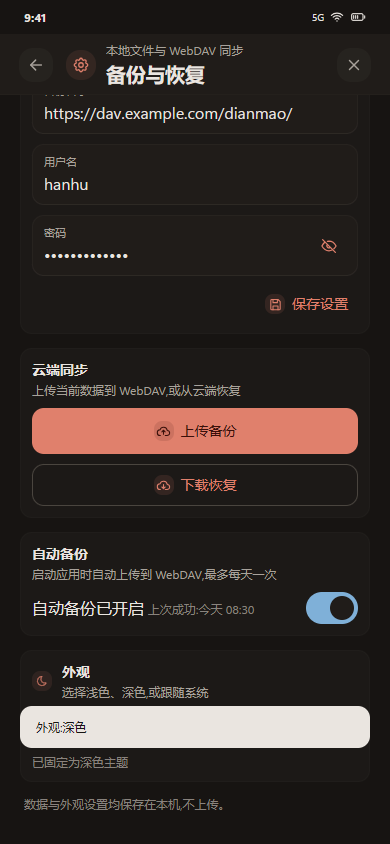
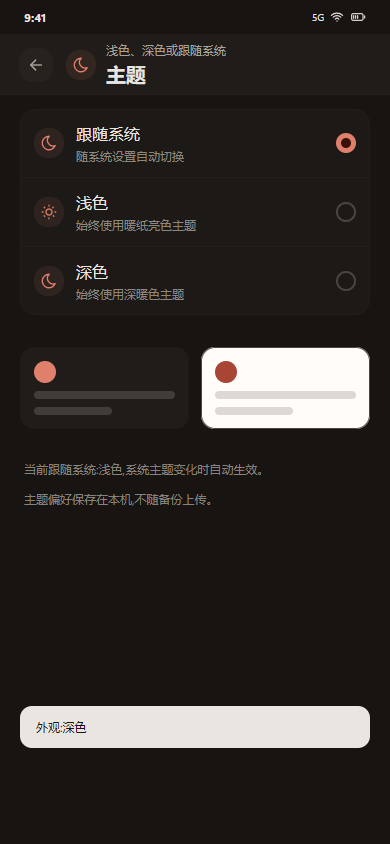
feat: split settings into a two-level hub with a dedicated appearance page

diff --git a/design/mockup/app.js b/design/mockup/app.js
@@ -34,6 +34,7 @@ function initial() {
   const t = (o) => Object.assign({ detail: null, useCalendar: false, useAlarm: false, useLocalReminder: false, repeat: null, subTasks: [], completed: false, completionNote: null, completionCount: 0, archived: false, dueAt: null, dueLabel: null }, o);
   return {
     page: 'home',
+    from: null, // where a level-2 settings page was opened from
     homeView: 'quadrants',
     search: false, query: '',
     activeQ: 'iu',
@@ -181,7 +182,7 @@ function homeHeader() {
         <button class="icon-button tile" data-action="search" aria-label="搜索">${itile(state.search ? 'close' : 'search', 'var(--on-surface-variant)')}</button>
         <button class="icon-button tile" data-page="calendar" aria-label="日历">${itile('calendar', 'var(--on-surface-variant)')}</button>
         <button class="icon-button tile" data-page="archive" aria-label="归档事项">${itile('archive', 'var(--on-surface-variant)')}</button>
-        <button class="icon-button tile" data-page="backup" aria-label="备份与恢复">${itile('settings', 'var(--on-surface-variant)')}</button>
+        <button class="icon-button tile" data-page="settings" aria-label="设置">${itile('settings', 'var(--on-surface-variant)')}</button>
       </div>
     </div>
     <div class="pills">
@@ -563,6 +564,56 @@ function reviewContent() {
 }
 
 /* ---------- page: backup ---------- */
+/* ---------- page: settings (level 1) ---------- */
+function settingsHeader() {
+  return `<button class="icon-button tile" data-action="back" aria-label="返回">${itile('arrow-back', 'var(--on-surface-variant)')}</button>
+    ${itile('settings', 'var(--primary)')}
+    <div class="header-title"><div class="eyeline">偏好与数据</div><h2>设置</h2></div>`;
+}
+const THEME_MODE_LABEL = { system: '跟随系统', light: '浅色', dark: '深色' };
+function settingsContent() {
+  const b = state.backup;
+  const host = b.url.trim() ? (b.url.match(/^https?:\/\/([^/]+)/) || [, ''])[1] : null;
+  const doneCount = active().filter(t => t.completed).length;
+  const group = (title, rows) => `<div class="section-label" style="padding:0 4px 6px">${title}</div><div class="settings-group">${rows}</div>`;
+  const row = (a, ic, tint, title, sub, trailing) => `<button class="settings-row" data-action="${a}">
+      ${itile(ic, tint)}<span class="sr-tx"><b>${title}</b><span>${sub}</span></span>${trailing || icon('chev-right', 's18 set-chev')}</button>`;
+  const tag = (label, tone = '') => `<span class="set-tag${tone ? ' ' + tone : ''}">${label}</span>`;
+  return `
+    <div class="settings-hero">
+      <span class="brand-mark">D</span>
+      <div><h2>DianMao</h2><span class="hint">v1.1.2 · The Day Compass</span></div>
+    </div>
+    ${group('外观', row('settings-appearance', 'moon', 'var(--primary)', '主题', '浅色、深色或跟随系统', tag(THEME_MODE_LABEL[state.themeMode])) + row('settings-widget', 'inventory', 'var(--secondary)', '小组件与通知', '桌面小组件与到点提醒样式', ''))}
+    ${group('数据', row('settings-backup', 'cloud-up', 'var(--secondary)', '备份与恢复', host ? `${host} · 已连接` : '本地导出与 WebDAV 同步', tag(host ? '已连接' : '未配置', host ? '' : 'warn')) + row('settings-archive', 'archive', 'var(--q-nn)', '归档事项', `${state.tasks.filter(t => t.archived).length} 项已归档`, '') + row('settings-review', 'chart', 'var(--primary)', '复盘', `${doneCount} 项已完成可复盘`, ''))}
+    ${group('关于', row('settings-about', 'compass', 'var(--primary)', '关于 DianMao', '版本、设计语言与隐私说明', ''))}
+    <span class="hint" style="padding:4px">所有数据与偏好仅保存在本机;备份由你自行指定目标。</span>`;
+}
+
+/* ---------- page: appearance (level 2) ---------- */
+function appearanceHeader() {
+  return `<button class="icon-button tile" data-action="settings-back" aria-label="返回设置">${itile('arrow-back', 'var(--on-surface-variant)')}</button>
+    ${itile('moon', 'var(--primary)')}
+    <div class="header-title"><div class="eyeline">浅色、深色或跟随系统</div><h2>主题</h2></div>`;
+}
+function appearanceContent() {
+  const modes = [['system', '跟随系统', '随系统设置自动切换', 'moon'], ['light', '浅色', '始终使用暖纸亮色主题', 'sun'], ['dark', '深色', '始终使用深暖色主题', 'moon']];
+  const list = modes.map(([k, label, sub, ic]) => `<button class="choice-row${state.themeMode === k ? ' on' : ''}" data-action="theme-mode" data-mode="${k}" role="radio" aria-checked="${state.themeMode === k}">
+      ${itile(ic, 'var(--primary)')}
+      <span class="sr-tx"><b>${label}</b><span>${sub}</span></span>
+      <span class="radio${state.themeMode === k ? ' on' : ''}" aria-hidden="true"></span>
+    </button>`).join('');
+  const preview = `<div class="theme-preview">
+      <div class="tp-card dark"><span class="tp-swatch"></span><span class="tp-line"></span><span class="tp-line short"></span></div>
+      <div class="tp-card light"><span class="tp-swatch"></span><span class="tp-line"></span><span class="tp-line short"></span></div>
+    </div>`;
+  return `<div class="settings-group choice-list">${list}</div>
+    ${preview}
+    <span class="hint" style="padding:0 4px">${state.themeMode === 'system' ? `当前跟随系统:${isDarkNow() ? '深色' : '浅色'}` : `已固定为${THEME_MODE_LABEL[state.themeMode]}主题`}${state.themeMode === 'system' ? ',系统主题变化时自动生效。' : '。切回跟随系统即可自动跟随。'}</span>
+    <span class="hint" style="padding:0 4px">主题偏好保存在本机,不随备份上传。</span>`;
+}
+
+/* ---------- page: backup (level 2) ---------- */
 function backupHeader() {
   return `<button class="icon-button tile" data-action="back" aria-label="返回">${itile('arrow-back', 'var(--on-surface-variant)')}</button>
     ${itile('settings', 'var(--primary)')}
@@ -613,15 +664,7 @@ function backupContent() {
           <span class="hint">${b.auto ? '上次成功:今天 08:30' : '需要先配置 WebDAV'}</span></div>
         <span class="switch${b.auto ? ' on' : ''}" data-action="toggle-auto" role="switch" aria-checked="${b.auto}"><span class="thumb"></span></span>
       </div>
-    </div>
-    <div class="block">
-      <div class="sec-head">${itile('moon', 'var(--primary)', true)}<div class="tx"><span class="sec-title sm">外观</span><span class="sec-sub">选择浅色、深色,或跟随系统</span></div></div>
-      <div class="segmented">
-        ${[['system', '跟随系统'], ['light', '浅色'], ['dark', '深色']].map(([k, l]) => `<button class="seg ${state.themeMode === k ? 'on' : ''}" data-action="theme-mode" data-mode="${k}">${l}</button>`).join('')}
-      </div>
-      <span class="hint">${state.themeMode === 'system' ? `当前跟随系统:${isDarkNow() ? '深色' : '浅色'}` : `已固定为${state.themeMode === 'dark' ? '深色' : '浅色'}主题`}</span>
-    </div>
-    <span class="hint" style="padding:0 4px">数据与外观设置均保存在本机,不上传。</span>`;
+    </div>`;
 }
 
 /* ---------- page: archive ---------- */
@@ -723,7 +766,7 @@ function dialogsContent() {
 }
 
 /* ---------- navigation + notes ---------- */
-const PAGES = [['home', '首页'], ['quadrant', '象限详情'], ['detail', '事项详情'], ['add', '新增事项'], ['calendar', '日历'], ['review', '复盘'], ['backup', '备份'], ['archive', '归档'], ['dialogs', '对话框'], ['widget', '小组件与通知']];
+const PAGES = [['home', '首页'], ['quadrant', '象限详情'], ['detail', '事项详情'], ['add', '新增事项'], ['calendar', '日历'], ['review', '复盘'], ['settings', '设置'], ['backup', '备份'], ['archive', '归档'], ['dialogs', '对话框'], ['widget', '小组件与通知']];
 const NOTES = {
   home: ['01', '先捕捉,<br>再分类。', '四象限不是分类表单,而是一眼看清今天该往哪走。时间关注把过期与今天提到最上层。', ['切到「今天 / 近期 / 收集箱」看分组列表', '右滑完成 / 左滑删除任务行', '长按任务进入多选,可全选与批量操作', '点一个象限进入详情']],
   quadrant: ['02', '一个象限,<br>一种节奏。', '象限色只做低透明度底纹(8%),头部与空态用同一层 tint,不抢正文。', ['长按任务行拖拽排序(抬起态)', '点「已完成」展开收起', '点标题进事项详情']],
@@ -732,6 +775,8 @@ const NOTES = {
   calendar: ['05', '时间有它<br/>自己的声音。', '日历相关的蓝色只用于时间语义;月格里的点表示当天事项的象限。', ['切换月份', '点某一天看当天列表', '长按任务「移动到...」']],
   review: ['06', '完成之后,<br>留下一点什么。', '统计只用现有事实:近 7/30 天次数、每日分布、象限占比与完成心得。', ['滚动查看各区', '点顶部「已复盘」pill 也能到这里']],
   backup: ['07', '数据在手里,<br>也在云上。', '表单用静默边框,唯一的主按钮属于「上传备份」;未配置时本地导出接管主按钮。', ['切换密码可见性', '开关自动备份', '点「保存设置」']],
+  settings: ['07', '先看全局,<br>再进细节。', '一级设置页只列出分组入口:外观、数据、关于。每行一句现状,不堆控件。', ['点「主题」进二级页', '点「备份与恢复」进备份页', '点「小组件与通知」看样式']],
+  appearance: ['07', '亮或暗,<br>你说了算。', '二级主题页用单选列表 + 双主题小预览,选择即时生效;跟随系统时自动跟随 OS。', ['切换跟随系统 / 浅色 / 深色', '看下方明暗对比预览']],
   archive: ['08', '旧的完成,<br>不必消失。', '归档行保留象限色点、标题、meta 与一个明确的恢复按钮。', ['点「恢复」把它放回待办']],
   dialogs: ['09', '同一家族,<br>同一套语气。', '所有紧凑对话框共享同一个容器:暖纸 scrim、18dp 圆角卡、发丝级边框与 6dp 阴影。', ['删除 / 取消完成重复 / 完成心得', '日期 / 重复规则 / 提醒提前量', '移动到象限 / 批量删除']],
   widget: ['10', '不打开应用,<br>也知道今天。', '桌面小组件展示今天的待办并可勾选完成;到点提醒的通知带「完成」与「稍后提醒」。', ['看宽/窄两种小组件尺寸', '勾选小组件里的任务(演示)', '看提醒通知的两个动作按钮']],
@@ -740,16 +785,19 @@ const TITLES = Object.fromEntries(PAGES);
 const HEADERS = {
   home: homeHeader, quadrant: quadrantHeader, detail: detailHeader, add: addHeader,
   calendar: calendarHeader, review: reviewHeader, backup: backupHeader, archive: archiveHeader, dialogs: dialogsHeader, widget: widgetHeader,
+  settings: settingsHeader, appearance: appearanceHeader,
 };
 const CONTENTS = {
   home: homeContent, quadrant: quadrantContent, detail: detailContent, add: addContent,
   calendar: calendarContent, review: reviewContent, backup: backupContent, archive: archiveContent, dialogs: dialogsContent, widget: widgetContent,
+  settings: settingsContent, appearance: appearanceContent,
 };
-const SCAFFOLD = { quadrant: 1, detail: 1, add: 1, calendar: 1, review: 1, backup: 1, archive: 1, dialogs: 1, widget: 1 };
+const SCAFFOLD = { quadrant: 1, detail: 1, add: 1, calendar: 1, review: 1, backup: 1, archive: 1, dialogs: 1, widget: 1, settings: 1, appearance: 1 };
 
 function navigate(page) {
   if (page === 'add' && !state.form) { state.editingId = null; state.form = blankForm('iu'); }
   if (page === 'detail' && state.detailId == null) { state.detailId = openTasks()[0] ? openTasks()[0].id : (active()[0] || {}).id; }
+  if (page !== 'backup' && page !== 'archive' && page !== 'review' && page !== 'widget') state.from = null;
   state.page = page;
   if (page !== 'home') state.search = false;
   if (page !== 'home' && page !== 'quadrant') state.selection = [];
@@ -828,10 +876,23 @@ function menuItem(action, label, ico, data = '', danger = false) {
 /* ---------- actions ---------- */
 const actions = {
   'home': () => navigate('home'),
+  'settings-back': () => navigate('settings'),
+  'settings-appearance': () => navigate('appearance'),
+  'settings-backup': () => { state.from = 'settings'; navigate('backup'); },
+  'settings-archive': () => { state.from = 'settings'; navigate('archive'); },
+  'settings-review': () => { state.from = 'settings'; navigate('review'); },
+  'settings-widget': () => { state.from = 'settings'; navigate('widget'); },
+  'settings-about': () => sheet('关于 DianMao', `<div style="font-size:14px;line-height:22px;color:var(--on-surface-variant)">
+      <b style="color:var(--on-surface)">DianMao v1.1.2</b><br>个人任务指挥台。四象限决定方向,时间决定什么时候看它。<br><br>
+      设计语言:The Day Compass。数据与偏好仅保存在本机;日历、提醒与备份均由你显式授权后才发生。
+    </div>
+    <div class="dlg-actions"><button class="btn text" data-action="close">关闭</button></div>`, { icon: 'compass', tint: 'var(--primary)' }),
   'back': () => {
     if (state.page === 'detail') return navigate('home');
     if (state.page === 'quadrant') return navigate('home');
     if (state.page === 'add') return navigate(state.editingId ? 'detail' : 'home');
+    if (state.page === 'appearance') return navigate('settings');
+    if (['backup', 'archive', 'review', 'widget'].includes(state.page) && state.from === 'settings') return navigate('settings');
     navigate('home');
   },
   'add': () => { state.editingId = null; state.form = blankForm(state.homeView === 'quadrants' ? 'iu' : 'iu'); navigate('add'); },

diff --git a/design/mockup/style.css b/design/mockup/style.css
@@ -488,6 +488,40 @@ small{font-size:11px;line-height:1.8}
 .notif-actions{display:flex;gap:8px}
 .notif-btn{flex:1;display:inline-flex;align-items:center;justify-content:center;gap:6px;border:0;border-radius:10px;padding:9px 8px;font-size:13px;font-weight:500;color:var(--primary);background:color-mix(in srgb,var(--primary) 10%,transparent);cursor:pointer}
 
+/* settings (level 1) + appearance (level 2) */
+.settings-hero{display:flex;align-items:center;gap:14px;padding:6px 2px 18px}
+.settings-hero .brand-mark{width:54px;height:54px;border-radius:17px;font-size:26px}
+.settings-hero h2{font-size:20px;font-weight:600;line-height:26px;margin-bottom:2px}
+.settings-group{border-radius:16px;background:color-mix(in srgb,var(--surface-variant) 26%,transparent);box-shadow:inset 0 0 0 1px color-mix(in srgb,var(--outline) 12%,transparent);overflow:hidden;margin-bottom:18px}
+.settings-row{width:100%;display:flex;align-items:center;gap:12px;padding:12px 14px;border:0;background:none;color:inherit;text-align:left;cursor:pointer;border-bottom:1px solid color-mix(in srgb,var(--outline) 12%,transparent)}
+.settings-group .settings-row:last-child{border-bottom:0}
+.settings-row:hover{background:color-mix(in srgb,var(--surface-variant) 34%,transparent)}
+.settings-row .sr-tx{flex:1;min-width:0;display:flex;flex-direction:column;gap:2px}
+.settings-row .sr-tx b{font-size:16px;font-weight:500;line-height:24px;color:var(--on-surface);white-space:nowrap;overflow:hidden;text-overflow:ellipsis}
+.settings-row .sr-tx span{font-size:12px;line-height:16px;color:color-mix(in srgb,var(--on-surface-variant) 80%,transparent);white-space:nowrap;overflow:hidden;text-overflow:ellipsis}
+.set-chev{color:color-mix(in srgb,var(--on-surface-variant) 62%,transparent)}
+.set-tag{flex:none;border-radius:8px;padding:3px 8px;font-size:12px;font-weight:500;line-height:16px;background:color-mix(in srgb,var(--primary-container) 62%,transparent);color:var(--on-primary-container)}
+.set-tag.warn{background:color-mix(in srgb,var(--error) 14%,transparent);color:var(--error)}
+.choice-list{padding:0}
+.choice-row{width:100%;display:flex;align-items:center;gap:12px;padding:13px 14px;border:0;background:none;color:inherit;text-align:left;cursor:pointer;border-bottom:1px solid color-mix(in srgb,var(--outline) 12%,transparent)}
+.choice-list .choice-row:last-child{border-bottom:0}
+.choice-row:hover{background:color-mix(in srgb,var(--surface-variant) 34%,transparent)}
+.choice-row .sr-tx{flex:1;min-width:0;display:flex;flex-direction:column;gap:2px}
+.choice-row .sr-tx b{font-size:16px;font-weight:500;line-height:24px;color:var(--on-surface)}
+.choice-row .sr-tx span{font-size:12px;line-height:16px;color:color-mix(in srgb,var(--on-surface-variant) 80%,transparent)}
+.radio{width:20px;height:20px;flex:none;border-radius:999px;box-shadow:inset 0 0 0 2px var(--outline);position:relative}
+.radio.on{box-shadow:none;background:var(--primary)}
+.radio.on::after{content:"";position:absolute;inset:5px;border-radius:999px;background:var(--on-primary)}
+.theme-preview{display:flex;gap:12px;margin-bottom:18px}
+.tp-card{flex:1;border-radius:14px;padding:14px;display:flex;flex-direction:column;gap:8px;position:relative;box-shadow:inset 0 0 0 1px rgba(0,0,0,.06)}
+.tp-card.dark{background:#201C19}
+.tp-card.light{background:#FFFCF9;box-shadow:inset 0 0 0 1px var(--outline)}
+.tp-card .tp-swatch{width:22px;height:22px;border-radius:999px;background:#A84534}
+.tp-card.dark .tp-swatch{background:#E0806C}
+.tp-card .tp-line{height:8px;border-radius:999px;background:rgba(30,33,31,.16)}
+.tp-card.dark .tp-line{background:rgba(234,229,224,.16)}
+.tp-card .tp-line.short{width:55%}
+
 /* dialog chapter previews */
 .dialog-preview{position:relative;border-radius:14px;overflow:hidden;background:var(--bg);box-shadow:inset 0 0 0 1px color-mix(in srgb,var(--outline) 14%,transparent)}
 .dialog-preview .backdrop{position:absolute;inset:0;background:var(--scrim)}

diff --git a/design/mockup/BASELINE.md b/design/mockup/BASELINE.md
@@ -12,7 +12,7 @@
 本原型由 AI 依据当前 Compose 实现与 `DESIGN.md` 生成,**覆盖布局、文案与设计令牌,但尚未经用户逐场景目视确认**。
 在用户确认之前,它处于「待确认」状态:可用于评审与讨论,不等同于已批准的 Compose 迁移依据。
 
-## 覆盖范围(十页)
+## 覆盖范围(十二页)
 | # | 页面 | 原型入口 | 说明 |
 |---|------|----------|------|
 | 1 | 首页 | 章节导航「首页」 | AppHeader、汇总 pills、智能视图切换(四象限/今天/近期/收集箱)、时间关注 lane、四象限板、FAB;**任务行支持右滑完成 / 左滑删除**,长按进入多选 |
@@ -21,10 +21,12 @@
 | 4 | 新增/编辑 | FAB 或章节导航 | capture-first 字段、优先级 segmented、时间与提醒设置行(含提醒提前量)、快捷日期、子事项;日期/时间/重复/提前量均用 **M3 真实控件形态** |
 | 5 | 日历 | 顶栏日历按钮 | 周一起始月视图、象限点、选中日列表、记一笔、长按「移动到...」 |
 | 6 | 复盘 | 顶栏「已复盘」pill | 完成概览、近 7 天分布、四象限占比、最近完成 |
-| 7 | 备份与恢复 | 顶栏设置按钮 | 同步状态头、本地备份、WebDAV 配置、云端同步、自动备份开关、**外观(跟随系统/浅色/深色)** |
-| 8 | 归档事项 | 顶栏归档按钮 | 色点 + 标题 + meta + 取消归档 |
-| 9 | 对话框 | 章节导航「对话框」 | 全部 8 个真实对话框:删除、取消完成重复、完成心得、日期、重复规则、提醒提前量、移动到象限、批量删除 |
-| 10 | 小组件与通知 | 章节导航「小组件与通知」 | 宽/窄桌面小组件(Glance)、到点提醒通知(普通/重复两种动作文案) |
+| 7 | 设置(一级) | 顶栏设置按钮 | 头像区 + 外观/数据/关于三组入口;每行图标 + 标题 + 一句现状 + 状态标签/箭头 |
+| 8 | 主题(二级) | 设置 → 主题 | 单选列表(跟随系统/浅色/深色)+ 明暗对比预览;即时生效 |
+| 9 | 备份与恢复(二级) | 设置 → 备份与恢复 | 同步状态头、本地备份、WebDAV 配置、云端同步、自动备份开关 |
+| 10 | 归档事项(二级) | 设置 → 归档事项 | 色点 + 标题 + meta + 取消归档 |
+| 11 | 对话框 | 章节导航「对话框」 | 全部 8 个真实对话框:删除、取消完成重复、完成心得、日期、重复规则、提醒提前量、移动到象限、批量删除 |
+| 12 | 小组件与通知(二级) | 设置 → 小组件与通知 | 宽/窄桌面小组件(Glance)、到点提醒通知(普通/重复两种动作文案) |
 
 ## 文件摘要
 
@@ -34,11 +36,15 @@
 | 文件 | SHA-256 |
 |---|---|
[5 lines of base64/hex data omitted]
 
 ## 明确待确认项
 
+- **设置页为新增结构**:正式实现目前只有单个「备份与恢复」页(从顶栏直接打开)。
+  本次新增一级设置主页(外观/数据/关于分组)与二级主题页,备份/归档/复盘/小组件成为二级入口。
+  建议 Compose 侧实现为:新增 `SettingsScreen`(一级)+ `AppearanceScreen`(二级),
+  备份/归档/复盘沿用现有全屏页,仅改入口与返回目标。**需用户确认后才可视为正式范围。**
 - **外观切换为新增能力**:正式实现目前只有 `isSystemInDarkTheme()`(纯跟随系统),
   无手动切换与偏好存储。本次按用户要求新增三模式(跟随系统/浅色/深色),
   建议 Compose 侧实现为 `DataStore` 偏好 + `DianMaoTheme(themeMode)`。**需用户确认后才可视为正式范围。**
@@ -61,6 +67,20 @@
 对应 Android 实施/截图证据。源文件摘要变化时,差异部分处于待确认状态。
 
 ## 变更记录
+
+### v1.5:设置页两级化(2026-10-11)
+
+**触发**:用户要求「设置页面美化,增加一级,让页面看起来更清爽」。
+
+1. **新增一级「设置」主页**:头像区 + 三组入口(外观 / 数据 / 关于),每行图标 +
+   标题 + 一句现状 + 右侧状态标签或箭头。顶栏齿轮与「外观」pill 均指向此处。
+2. **新增二级「主题」页**:单选列表(跟随系统/浅色/深色)+ 明暗对比预览 + 说明;
+   即时生效。原备份页内的「外观」区块移出至此。
+3. **二级入口化**:备份与恢复、归档事项、复盘、小组件与通知 改为从设置页进入,
+   并记住来路,返回时回到设置页。
+4. **关于对话框**:版本、设计语言与隐私说明。
+
+**确认状态**:设置页两级化属**新增结构**(见上文待确认项),待用户确认。
 
 ### v1.4:外观开关与视觉打磨(2026-10-11)
 

diff --git a/CHANGELOG.md b/CHANGELOG.md
@@ -2,6 +2,15 @@
 
 # Changelog
 
+# Changelog
+
+- Prototype v1.5 — two-level settings (2026-10-11): the single backup page becomes
+  a proper settings hub. A new level-1 设置 page groups 外观 / 数据 / 关于 with a
+  profile header and one-line status rows; a new level-2 主题 page holds the
+  system/light/dark choice with a light-dark preview. Backup, archive, review, and
+  widget become level-2 entries that remember their origin and return to settings.
+  New structure, logged as pending confirmation in `design/mockup/BASELINE.md`.
+
 - Prototype v1.4 — appearance switch + polish (2026-10-11): the settings/backup
   page gains an 外观 section with three modes — 跟随系统 / 浅色 / 深色 — following
   the OS live in system mode. This is a new capability: the app currently only
